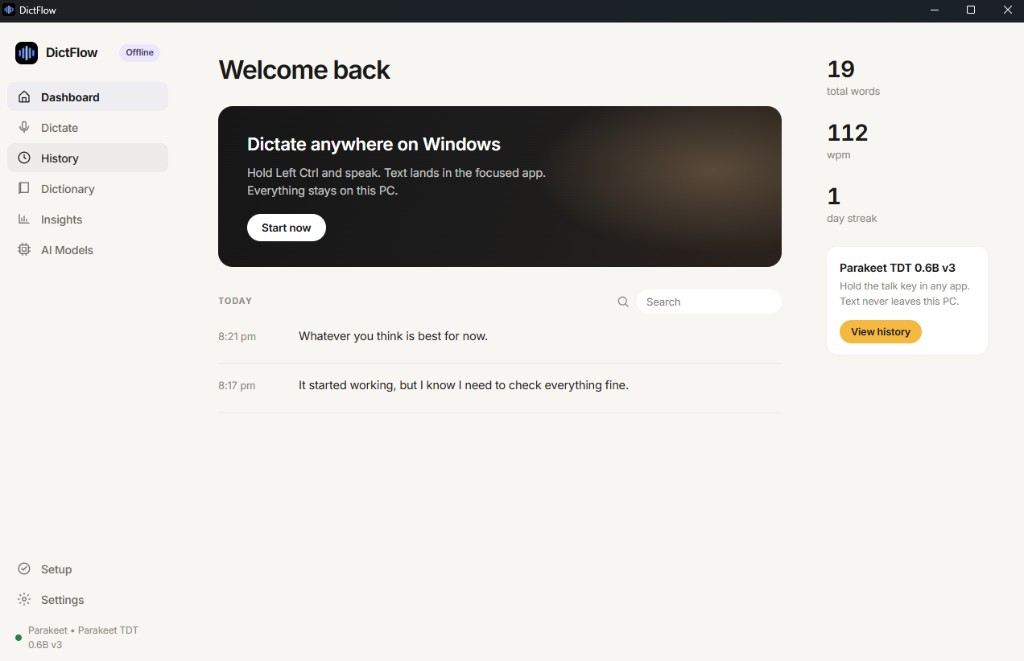
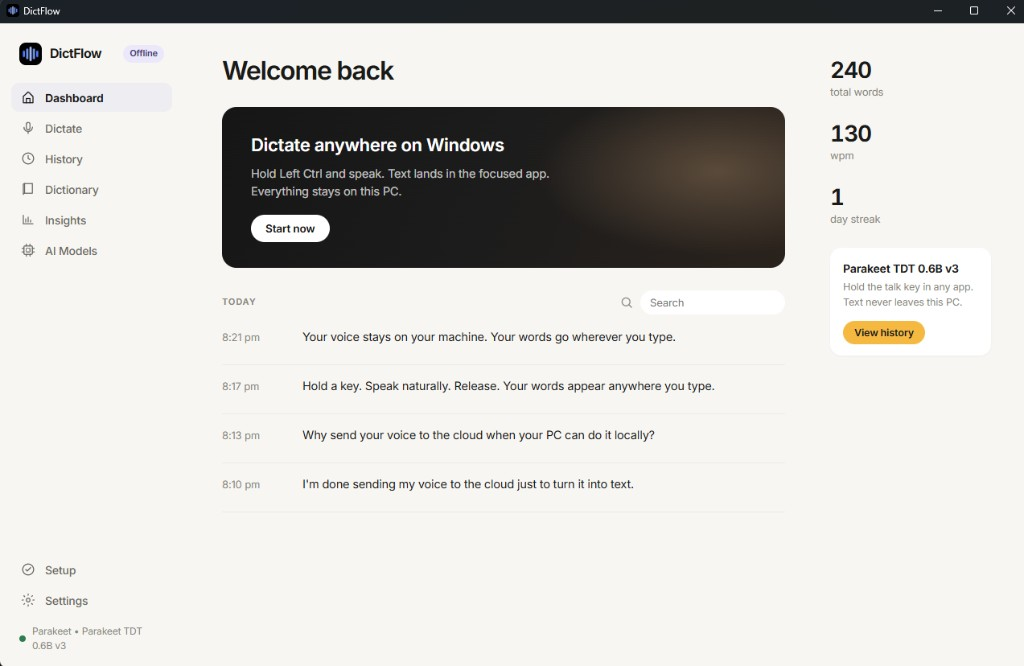
Refresh the README screenshot and point docs at the real AppData folder.

diff --git a/docs/BUILD.md b/docs/BUILD.md
@@ -47,13 +47,13 @@ Or run everything via [`scripts/build-windows.ps1`](../scripts/build-windows.ps1
 - **Logs**: backend logs go to stdout in `tauri dev` and to the app log dir in
   production (`tauri-plugin-log`); the webview forwards console via the same
   pipeline. Release builds are a GUI app (no extra CMD window). Open the log
-  dir from `%APPDATA%\dictflow\logs`.
+  dir from `%APPDATA%\com.dictflow.app\dictflow\logs`.
 - **Portable exe**: `scripts/build-windows.ps1` (via
   `scripts/package-portable.ps1`) writes
   `src-tauri/target/release/bundle/portable/DictFlow.exe` and a versioned
   `DictFlow-<ver>-windows-x64-portable.exe`. Double-click — no installer.
-  WebView2 (preinstalled on Windows 10/11) is still required. Data still
-  lives in `%APPDATA%\dictflow`. See [RELEASE.md](RELEASE.md) to publish.
+  Data still lives in `%APPDATA%\com.dictflow.app\dictflow`. See
+  [RELEASE.md](RELEASE.md) to publish.
 
 ## Troubleshooting
 

diff --git a/README.md b/README.md
@@ -1,8 +1,10 @@
 # DictFlow
 
 Offline voice dictation for Windows 10/11. Hold a key, speak, release —
-text lands in whatever app has focus. Nothing leaves your PC unless you
-turn on an optional online model.
+text lands in whatever app has focus.
+
+Your voice stays on your machine. Your words go wherever you type.
+Nothing leaves your PC unless you turn on an optional online model.
 
 ![DictFlow](assets/screenshot.png)
 
@@ -18,10 +20,10 @@ turn on an optional online model.
 [All releases](https://github.com/vk-maurya/dictflow/releases)
 
 The builds are unsigned, so Windows SmartScreen may warn. Choose
-**More info → Run anyway**. WebView2 is required (already on Windows 10/11).
+**More info → Run anyway**.
 
 Portable is not a USB-only copy: settings, models, and history still live in
-`%APPDATA%\dictflow`.
+`%APPDATA%\com.dictflow.app\dictflow`.
 
 ## First run
 

diff --git a/docs/RELEASE.md b/docs/RELEASE.md
@@ -20,7 +20,7 @@ The app displays `env!("CARGO_PKG_VERSION")` (Settings → About). Use SemVer
 | `DictFlow_<ver>_x64_en-US.msi` | Optional enterprise/IT install. |
 
 The portable build is **not** a USB sidecar: settings, models, and history
-still live in `%APPDATA%\dictflow`. WebView2 is required (already on Win 10/11).
+still live in `%APPDATA%\com.dictflow.app\dictflow`.
 Both artifacts are unsigned, so SmartScreen may warn.
 
 ## How to publish (recommended)

diff --git a/docs/ARCHITECTURE.md b/docs/ARCHITECTURE.md
@@ -40,7 +40,7 @@ plus a first-run onboarding shell. Second window `overlay.html` / `src/overlay.t
 is the always-on-top pill. Tauri `invoke` + event listeners, toasts. No state
 library — module-level caches refreshed from commands.
 
-## On-disk layout (`%APPDATA%/dictflow/`)
+## On-disk layout (`%APPDATA%/com.dictflow.app/dictflow/`)
 
 ```
 models/<id>/…      # ggml-*.bin (Whisper) or encoder/decoder/joiner/tokens (Parakeet)
